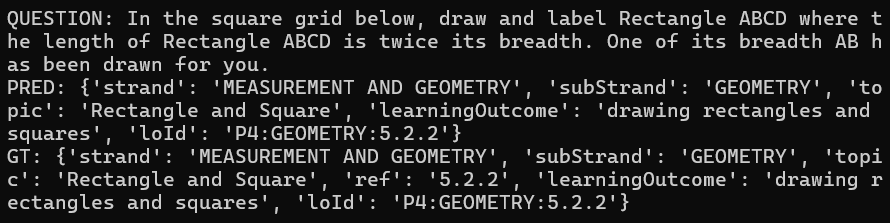
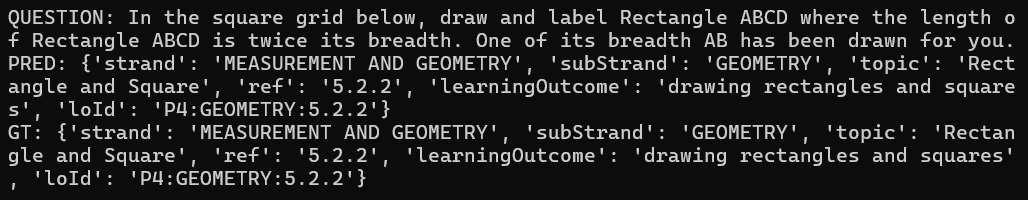
include ref in pred output and eval

diff --git a/parse_syllabus.py b/parse_syllabus.py
@@ -1,11 +1,17 @@
 import os
-from openai import OpenAI
+from openai import OpenAI, AuthenticationError
 import json
+from json.decoder import JSONDecodeError
 import re
 from dotenv import load_dotenv
-from pathlib import Path
+import sys
 
 load_dotenv()
+
+wd_api_key = os.getenv("WD_API_KEY")
+if not wd_api_key:
+    print("Error: Missing API key. Please set WD_API_KEY in .env")
+    sys.exit(1)
 
 client = OpenAI(
   api_key=os.getenv("WD_API_KEY"),
@@ -33,13 +39,14 @@ Structure:
     "strand": "",
     "subStrand": "",
     "topic": "",
+    "ref": "",
     "learningOutcome": "",
     "loId": ""
   }}
 ]
 
 Each item should represent one Learning Outcome, to be stated in the "learningOutcome" field.
-The "strand", "subStrand" and "topic" are to be the Strand, Sub-Strand and Topic that Learning Outcome belongs to.
+The "strand", "subStrand", "topic" and "ref" are to be the Strand, Sub-Strand, Topic and Ref number that Learning Outcome belongs to.
 For the "topic" field, the Topic seen in the table may have an index in front of it (eg. "1. Numbers up to 10 000), but DO NOT include the index in the field (just "Numbers up to 10000").
 For the "loId" field should be the following string: "{P}:" followed by the subStrand, followed by another ":", then finally the Ref number.
 
@@ -47,15 +54,24 @@ Syllabus:
 {raw_text}
 """
 
-    response = client.chat.completions.create(
-        model="openai/gpt-5.2",
-        messages=[{"role": "user", "content": prompt}],
-        temperature=0
-    )
+    try:
+        response = client.chat.completions.create(
+            model="openai/gpt-5.2",
+            messages=[{"role": "user", "content": prompt}],
+            temperature=0
+        )
+    except AuthenticationError:
+        print("Error: Invalid or expired API key in .env")
+        print("Please indicate a valid Vercel API key for OpenAI's GPT-5.2 model")
+        sys.exit(1)
 
     content = response.choices[0].message.content
     cleaned = extract_json(content)
-    converted = json.loads(cleaned)
+    try:
+        converted = json.loads(cleaned)
+    except JSONDecodeError:
+        print("Model returned output in unexpected format. Please try again.")
+        sys.exit(1)
     
     return converted
 

diff --git a/classifier.py b/classifier.py
@@ -1,10 +1,17 @@
 import os
-from openai import OpenAI
+from openai import OpenAI, AuthenticationError
 import json
+from json.decoder import JSONDecodeError
 import re
 from dotenv import load_dotenv
+import sys
 
 load_dotenv()
+
+wd_api_key = os.getenv("WD_API_KEY")
+if not wd_api_key:
+    print("Error: Missing API key. Please set WD_API_KEY in .env")
+    sys.exit(1)
 
 client = OpenAI(
   api_key=os.getenv("WD_API_KEY"),
@@ -22,6 +29,7 @@ Return ONLY valid JSON in this format:
   "strand": "...",
   "subStrand": "...",
   "topic": "...",
+  "ref": "...",
   "learningOutcome": "...",
   "loId": "..."
 }}
@@ -33,12 +41,22 @@ Question:
 "{question}"
 """
 
-    response = client.chat.completions.create(
-        model="openai/gpt-5.2",
-        messages=[{"role": "user", "content": prompt}],
-        temperature=0
-    )
+    try:
+        response = client.chat.completions.create(
+            model="openai/gpt-5.2",
+            messages=[{"role": "user", "content": prompt}],
+            temperature=0
+        )
+    except AuthenticationError:
+        print("Error: Invalid or expired API key in .env")
+        print("Please indicate a valid Vercel API key for OpenAI's GPT-5.2 model")
+        sys.exit(1)
 
     output = response.choices[0].message.content
+    try:
+        json_output = json.loads(output)
+    except JSONDecodeError:
+        print("Model returned output in unexpected format. Please try again.")
+        sys.exit(1)
 
-    return json.loads(output)
+    return json_output

diff --git a/evaluator.py b/evaluator.py
@@ -1,7 +1,7 @@
 def evaluate(predictions, ground_truths):
     total = len(predictions)
 
-    levels = ["strand", "subStrand", "topic", "learningOutcome", "loId"]
+    levels = ["strand", "subStrand", "topic", "ref", "learningOutcome", "loId"]
 
     correct_counts = {level: 0 for level in levels}
 

diff --git a/README.md b/README.md
@@ -1,7 +1,7 @@
 # Math Question Classifier
 
 This is a command line program that uses OpenAI's GPT-5.2 model to classify math questions.
-It takes in an input, the math question, and refers to a syllabus.json to predict what the `learning outcome`, `strand`, `sub-strand`, `topic` and `loId` of that question is.
+It takes in an input, the math question, and refers to a syllabus.json to predict what the `learning outcome`, `strand`, `sub-strand`, `topic`, `ref no.` and `loId` of that question is.
 
 There are 2 main parts to this program:
 1. parse_syllabus.py
@@ -30,11 +30,12 @@ Taking a look inside, the json has a long list of items in the following format:
     "strand": "",  
     "subStrand": "",  
     "topic": "",  
+    "ref": "",  
     "learningOutcome": "",  
     "loId": ""  
 }
 
-As can be seen, each item corresponds to each learning outcome in the syllabus tables. They also contain the Strand, Sub-Strand, Topic and loId associated with that learning outcome.
+As can be seen, each item corresponds to each learning outcome in the syllabus tables. They also contain the Strand, Sub-Strand, Topic, Ref and loId associated with that learning outcome.
 
 This is the expected output format to an input math question by the classification engine. As such, parsing the syllabus into a json will make it easier for the model to output the correct format later. It is essentially giving the model a list of possible "answers" to choose from.
 
@@ -61,7 +62,9 @@ The program prints the following to the terminal:
 
 ![alt text](images/image-2.png)
 
-Finally, at the end, the overall accuracy is printed. In my test run of the program, the model predicted correctly for Strand for 95% of all questions, predicted correctly Sub-Strand for 97% of all questions, predicted correctly for Topic for 74% of all questions and predicted correctly for Learning Outcome for 58% of all questions.
+Finally, at the end, the overall accuracy is printed. In my test run of the program, the model predicted correctly for Strand for 94% of all questions, predicted correctly Sub-Strand for 96% of all questions, predicted correctly for Topic for 72% of all questions, predicted correctly for Ref for 61% of all questions, predicted correctly for Learning Outcome for 58% of all questions and predicted correctly for loId for 59% of all questions.
+
+Since Learning Outcomes are a subset of Topics, Topics are a subset of Sub-Strands and Sub-strands are a subset of Strands, it stands to reason that the model has a higher chance of guessing the latter ones correctly over the former ones.
 
 ## Disclaimer
 
